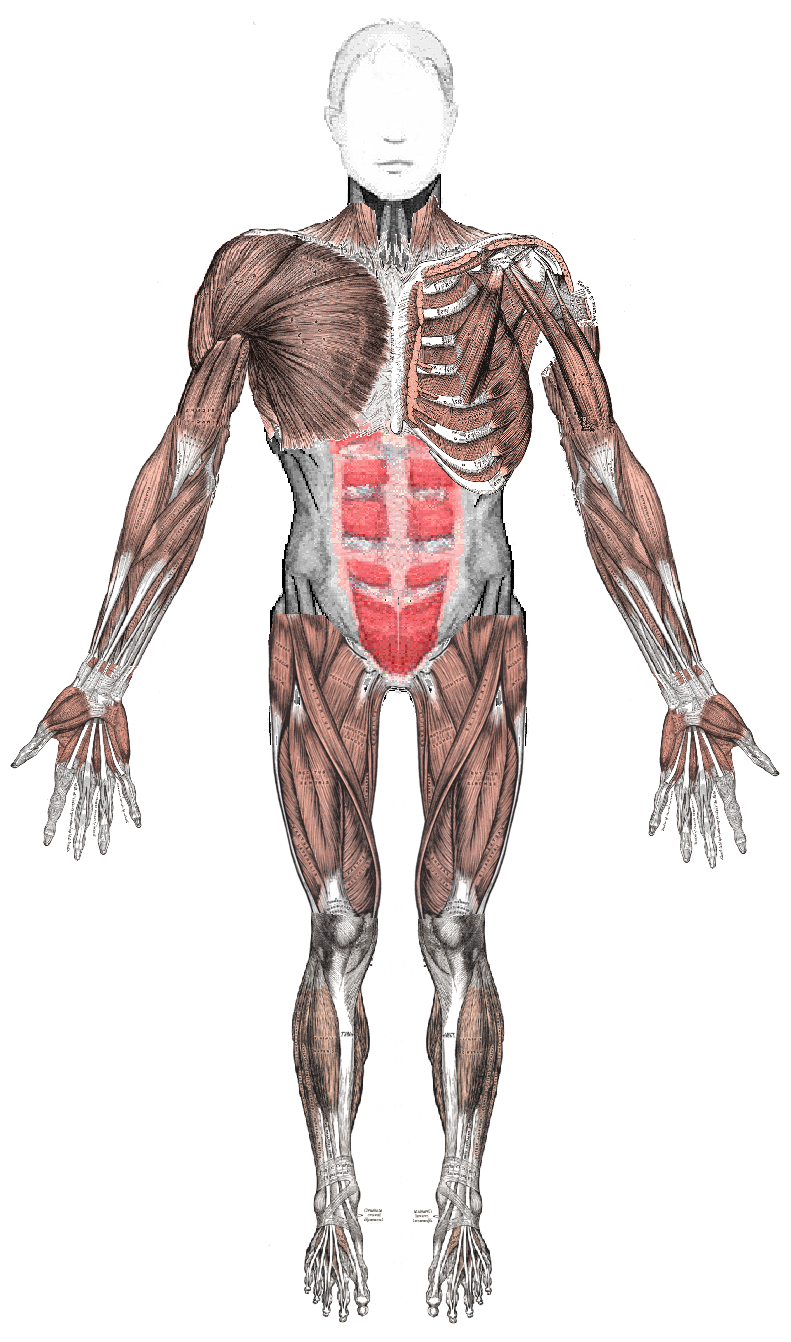
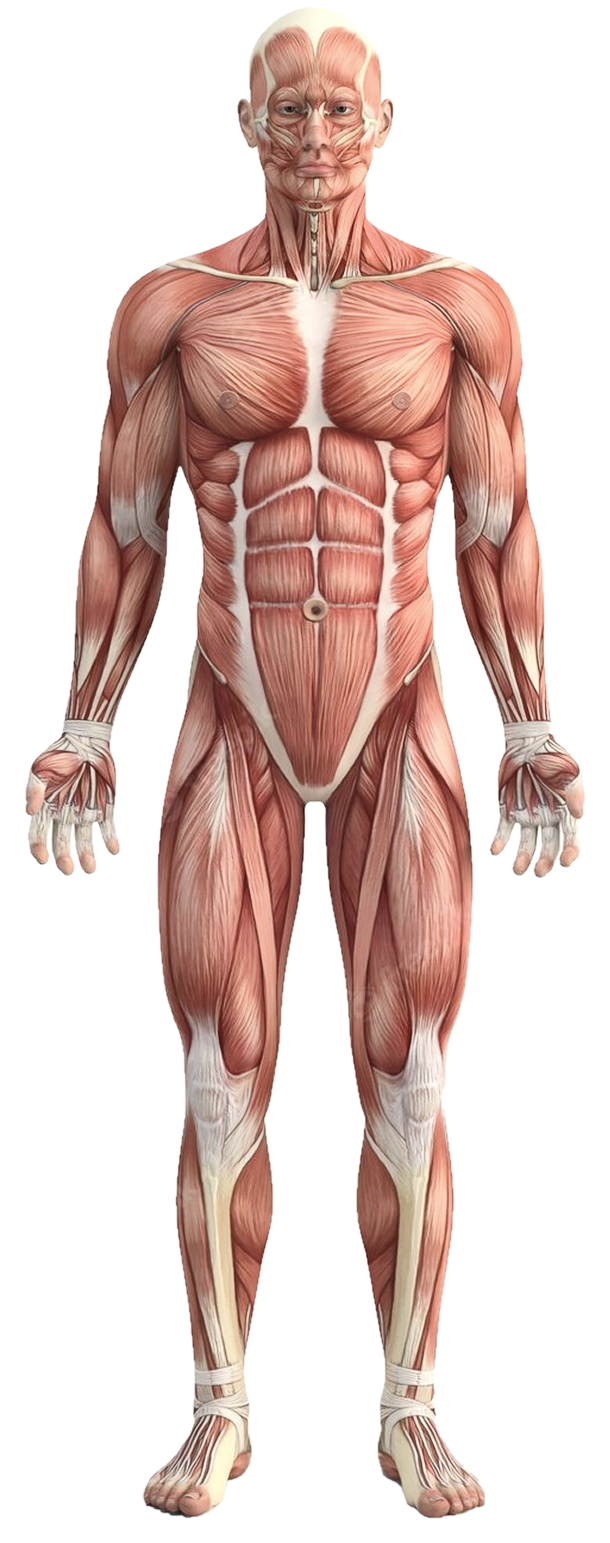
reports: swap AI body for the muscular render + add 3D rotate
Replace the illustrated figure with the new photoreal muscular anatomy image
(auto-cropped tight to the body, transparent bg). Give the center stage real
3D perspective and a Rotate control (< / >) that tilts the figure around the
Y axis up to ±72°, so it reads as a 3D model. Pins re-placed for the new
proportions; soft drop shadow added.

diff --git a/reports.html b/reports.html
@@ -643,9 +643,9 @@ button { font-family: inherit; color: inherit; -webkit-tap-highlight-color: tran
   .aid-brk .d { width: 9px; height: 9px; border-radius: 3px; flex-shrink: 0; }
   .aid-brk b { margin-left: auto; font-family: 'Plus Jakarta Sans',sans-serif; font-weight: 800; color: var(--text-primary,#0B1530); }
 
-  .aid-stage { position: relative; background: radial-gradient(ellipse 72% 62% at 50% 36%, #FFFFFF 0%, #FFFFFF 44%, #E9EFF9 100%); border: 1px solid #E7EDF7; border-radius: 22px; overflow: hidden; min-height: 540px; display: flex; align-items: flex-end; justify-content: center; }
-  .aid-figure { position: relative; z-index: 1; height: 510px; margin-bottom: -6px; }
-  .aid-figure > img { height: 100%; width: auto; display: block; }
+  .aid-stage { position: relative; background: radial-gradient(ellipse 72% 62% at 50% 36%, #FFFFFF 0%, #FFFFFF 44%, #E9EFF9 100%); border: 1px solid #E7EDF7; border-radius: 22px; overflow: hidden; min-height: 540px; display: flex; align-items: flex-end; justify-content: center; perspective: 1500px; }
+  .aid-figure { position: relative; z-index: 1; height: 512px; margin-bottom: -6px; transform-style: preserve-3d; transition: transform 0.55s cubic-bezier(.2,.8,.3,1); will-change: transform; }
+  .aid-figure > img { height: 100%; width: auto; display: block; filter: drop-shadow(0 18px 26px rgba(11,21,48,0.22)); }
   .aid-rings { position: absolute; left: 50%; bottom: 30px; transform: translateX(-50%); width: 340px; height: 120px; z-index: 0; pointer-events: none; }
   .aid-pin { position: absolute; width: 16px; height: 16px; border-radius: 50%; background: #fff; box-shadow: 0 2px 6px rgba(11,21,48,0.3); display: grid; place-items: center; transform: translate(-50%,-50%); }
   .aid-pin::after { content: ''; width: 7px; height: 7px; border-radius: 50%; }
@@ -667,7 +667,11 @@ button { font-family: inherit; color: inherit; -webkit-tap-highlight-color: tran
   .aid-float-lbl { font-size: 11px; color: var(--text-muted,#6B7592); margin-top: 5px; }
   .aid-float.tr .row { display: flex; align-items: center; justify-content: space-between; gap: 8px; }
   .aid-spark { width: 100%; height: 30px; margin-top: 8px; display: block; }
-  .aid-nav { position: absolute; bottom: 14px; left: 50%; transform: translateX(-50%); z-index: 3; width: 40px; height: 40px; border-radius: 50%; background: var(--primary,#1B2A5B); color: #fff; display: grid; place-items: center; font-size: 13px; box-shadow: 0 8px 20px -6px rgba(27,42,91,0.6); }
+  .aid-rotate { position: absolute; bottom: 14px; left: 50%; transform: translateX(-50%); z-index: 4; display: flex; align-items: center; gap: 6px; background: rgba(255,255,255,0.92); -webkit-backdrop-filter: blur(6px); backdrop-filter: blur(6px); border: 1px solid #E7EDF7; border-radius: 999px; padding: 5px; box-shadow: 0 12px 26px -10px rgba(11,21,48,0.5); }
+  .aid-rot { width: 34px; height: 34px; border: 0; border-radius: 50%; background: var(--primary,#1B2A5B); color: #fff; cursor: pointer; display: grid; place-items: center; font-size: 13px; transition: background 0.15s, transform 0.1s; }
+  .aid-rot:hover { background: #142048; }
+  .aid-rot:active { transform: scale(0.92); }
+  .aid-rot-lbl { display: inline-flex; align-items: center; gap: 6px; color: var(--text-muted,#6B7592); font-size: 11px; font-weight: 700; padding: 0 6px; }
 
   .aid-pt { padding: 18px 20px; display: flex; align-items: center; gap: 13px; }
   .aid-pt-av { width: 50px; height: 50px; border-radius: 50%; background: linear-gradient(135deg,var(--accent,#D33535),#F0843A); color: #fff; display: grid; place-items: center; font-weight: 800; font-size: 15px; font-family: 'Plus Jakarta Sans',sans-serif; flex-shrink: 0; }
@@ -1207,7 +1211,7 @@ button { font-family: inherit; color: inherit; -webkit-tap-highlight-color: tran
       ].map(function (b) { return '<div class="aid-brk"><span class="d" style="background:' + b[0] + '"></span>' + b[1] + '<b>' + b[2] + '</b></div>'; }).join('');
 
       var aidDots = [
-        { t: 16, l: 50, st: 'bad' }, { t: 28, l: 57, st: 'warn' }, { t: 38, l: 45, st: 'warn' }, { t: 42, l: 56, st: 'bad' }, { t: 60, l: 43, st: 'warn' }
+        { t: 13, l: 50, st: 'bad' }, { t: 26, l: 58, st: 'warn' }, { t: 40, l: 44, st: 'warn' }, { t: 44, l: 56, st: 'bad' }, { t: 72, l: 45, st: 'warn' }
       ].map(function (d) { return '<span class="aid-pin ' + d.st + '" style="top:' + d.t + '%;left:' + d.l + '%"><span class="ring"></span></span>'; }).join('');
 
       var aidRings = '<svg class="aid-rings" viewBox="0 0 340 120" fill="none">' +
@@ -1232,7 +1236,7 @@ button { font-family: inherit; color: inherit; -webkit-tap-highlight-color: tran
           '<div class="aid-float tr"><div class="row"><div><div class="aid-float-val">150<span>mg/dL</span></div><div class="aid-float-lbl">Triglycerides</div></div><span class="aid-float-pic"><i class="fas fa-heart-pulse"></i></span></div>' + aidSpark + '</div>' +
           '<div class="aid-figure">' + aidDots + '<img src="ai-body.png" alt="Body systems map"></div>' +
           aidRings +
-          '<span class="aid-nav"><i class="fas fa-angle-right"></i></span>' +
+          '<div class="aid-rotate"><button class="aid-rot" data-rot="l" aria-label="Rotate left"><i class="fas fa-angle-left"></i></button><span class="aid-rot-lbl"><i class="fas fa-arrows-rotate"></i> Rotate</span><button class="aid-rot" data-rot="r" aria-label="Rotate right"><i class="fas fa-angle-right"></i></button></div>' +
         '</div></div>' +
         '<div class="aid-col">' +
           '<div class="aid-card aid-pt"><span class="aid-pt-av">' + initials(patientName) + '</span><div><div class="aid-pt-name">' + patientName + '</div><div class="aid-pt-sub">32 yrs \u00b7 Male \u00b7 ' + lab + '</div></div></div>' +
@@ -1298,7 +1302,18 @@ button { font-family: inherit; color: inherit; -webkit-tap-highlight-color: tran
     }
 
     var ov = document.getElementById('aiOverlay');
+    var figRot = 0;
+    ov.addEventListener('click', function (e) {
+      var btn = e.target.closest && e.target.closest('.aid-rot');
+      if (!btn) return;
+      var fig = ov.querySelector('.aid-figure');
+      if (!fig) return;
+      figRot += (btn.getAttribute('data-rot') === 'r' ? 24 : -24);
+      figRot = Math.max(-72, Math.min(72, figRot));
+      fig.style.transform = 'rotateY(' + figRot + 'deg)';
+    });
     window.openAI = function (patientName, lab) {
+      figRot = 0;
       render(patientName || 'Akash Verma', lab || 'Healthians Lab');
       ov.classList.add('open'); document.body.classList.add('lm-locked'); ov.scrollTop = 0;
     };